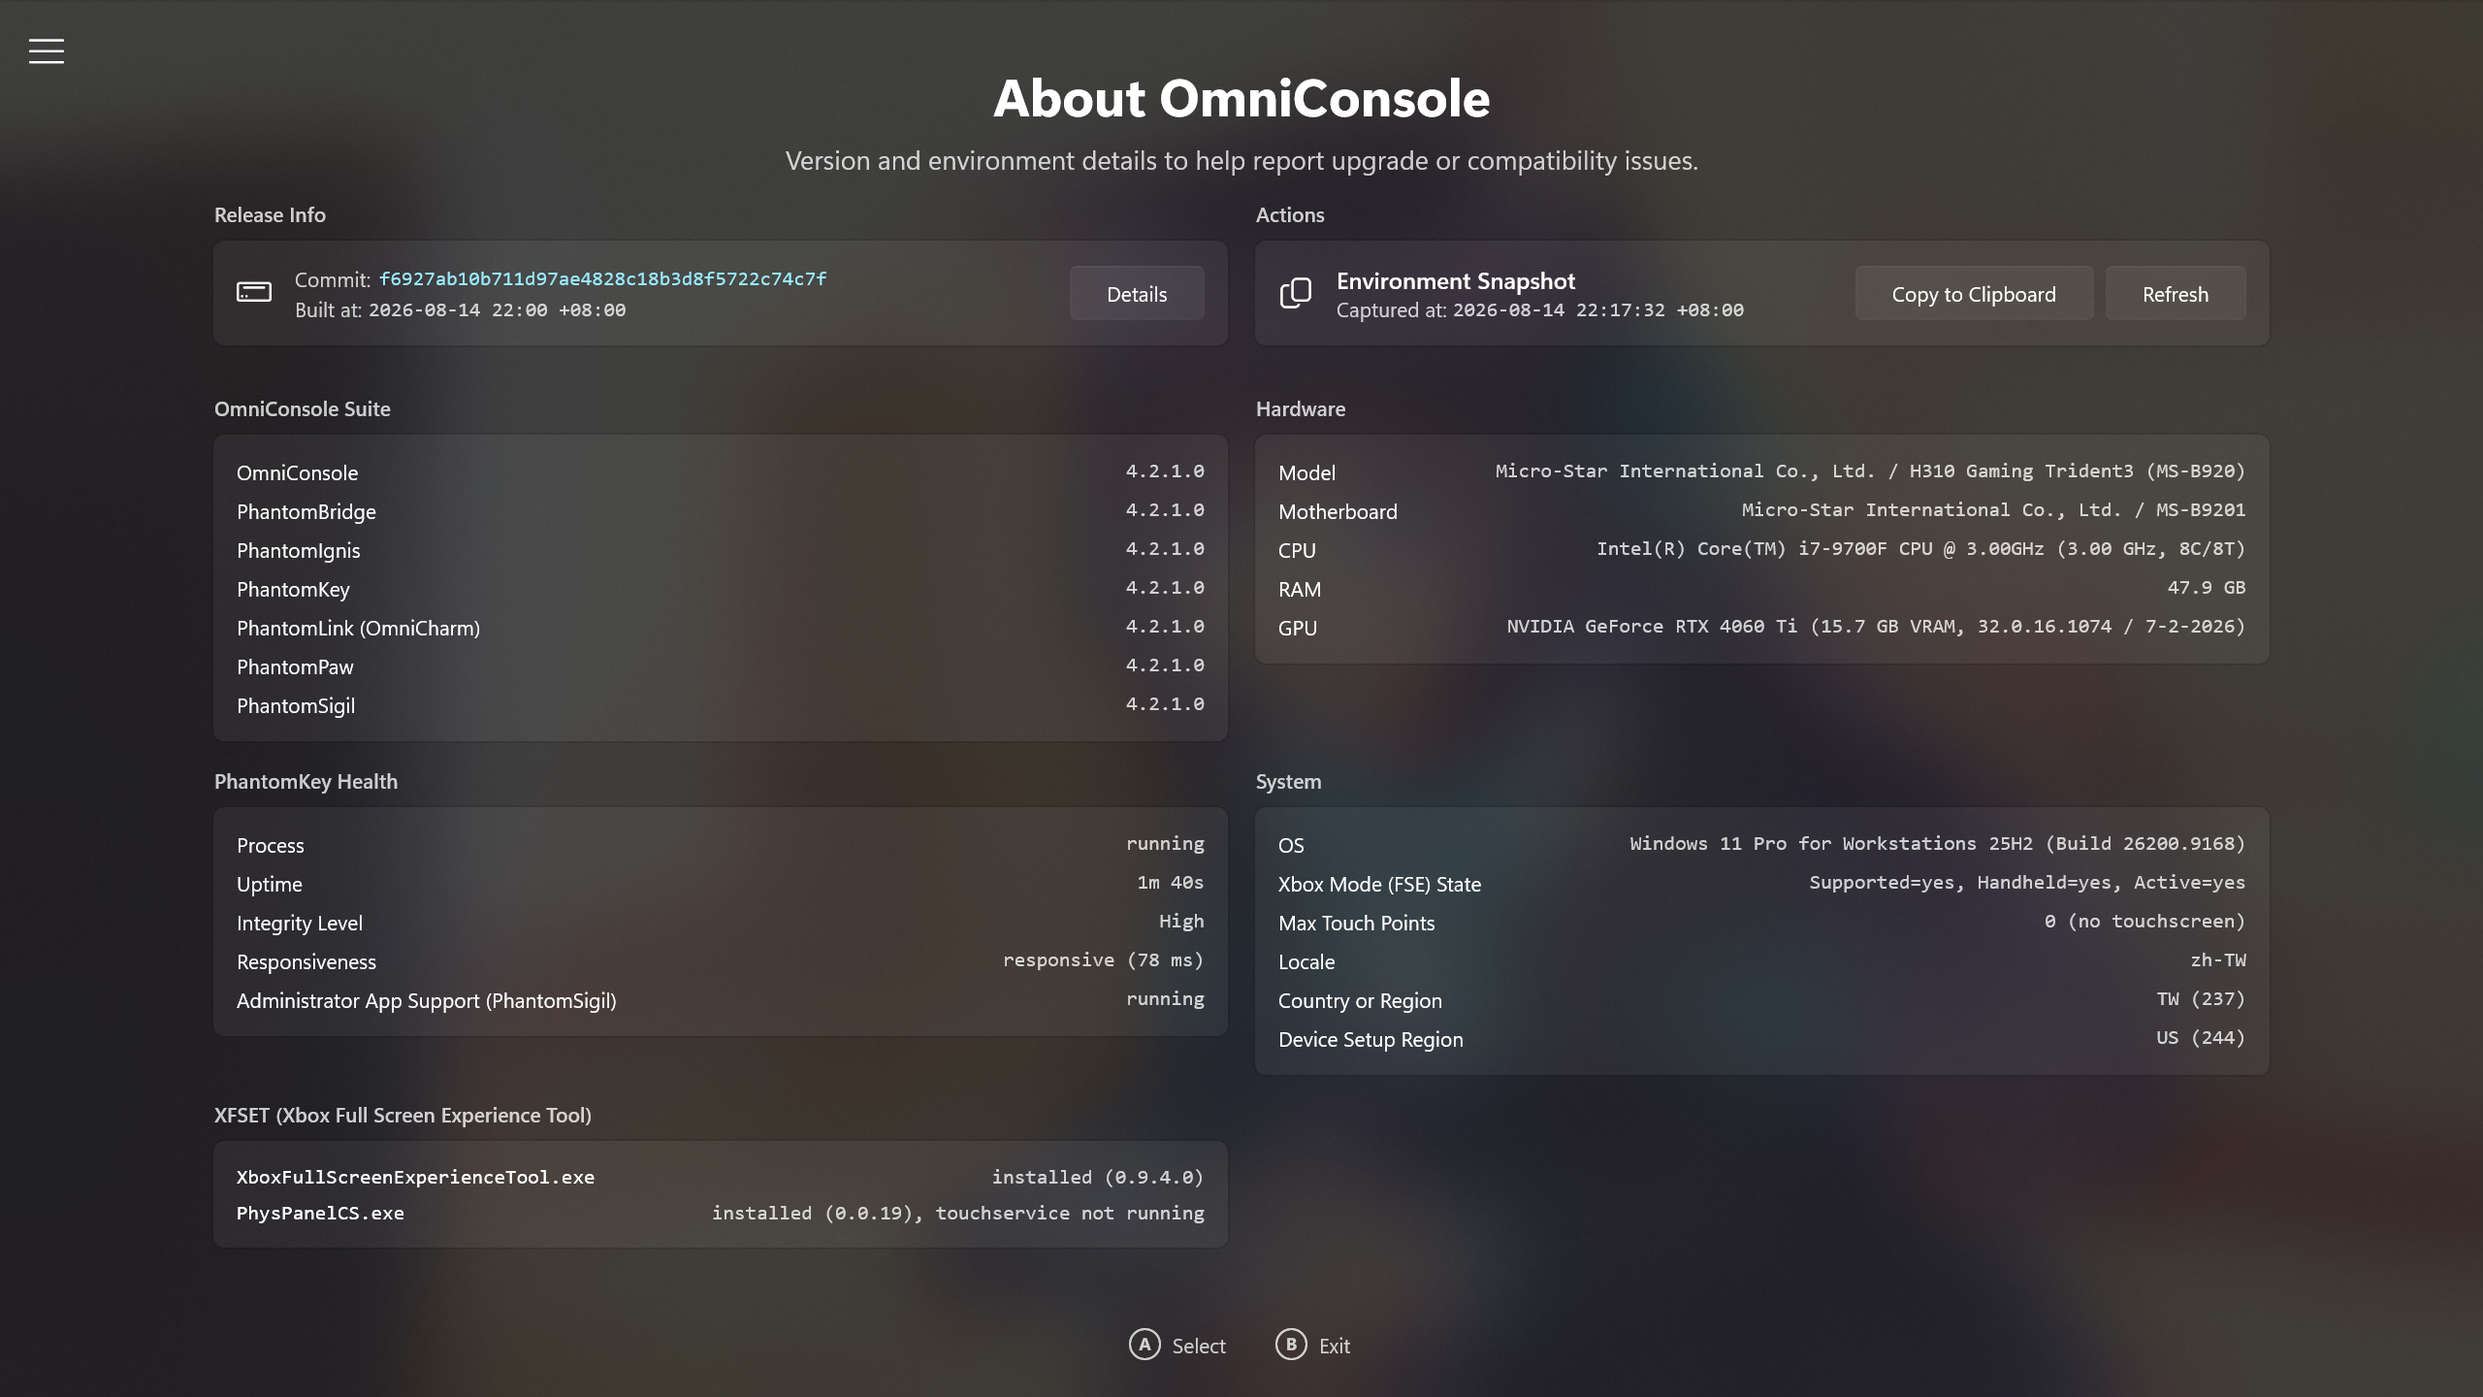
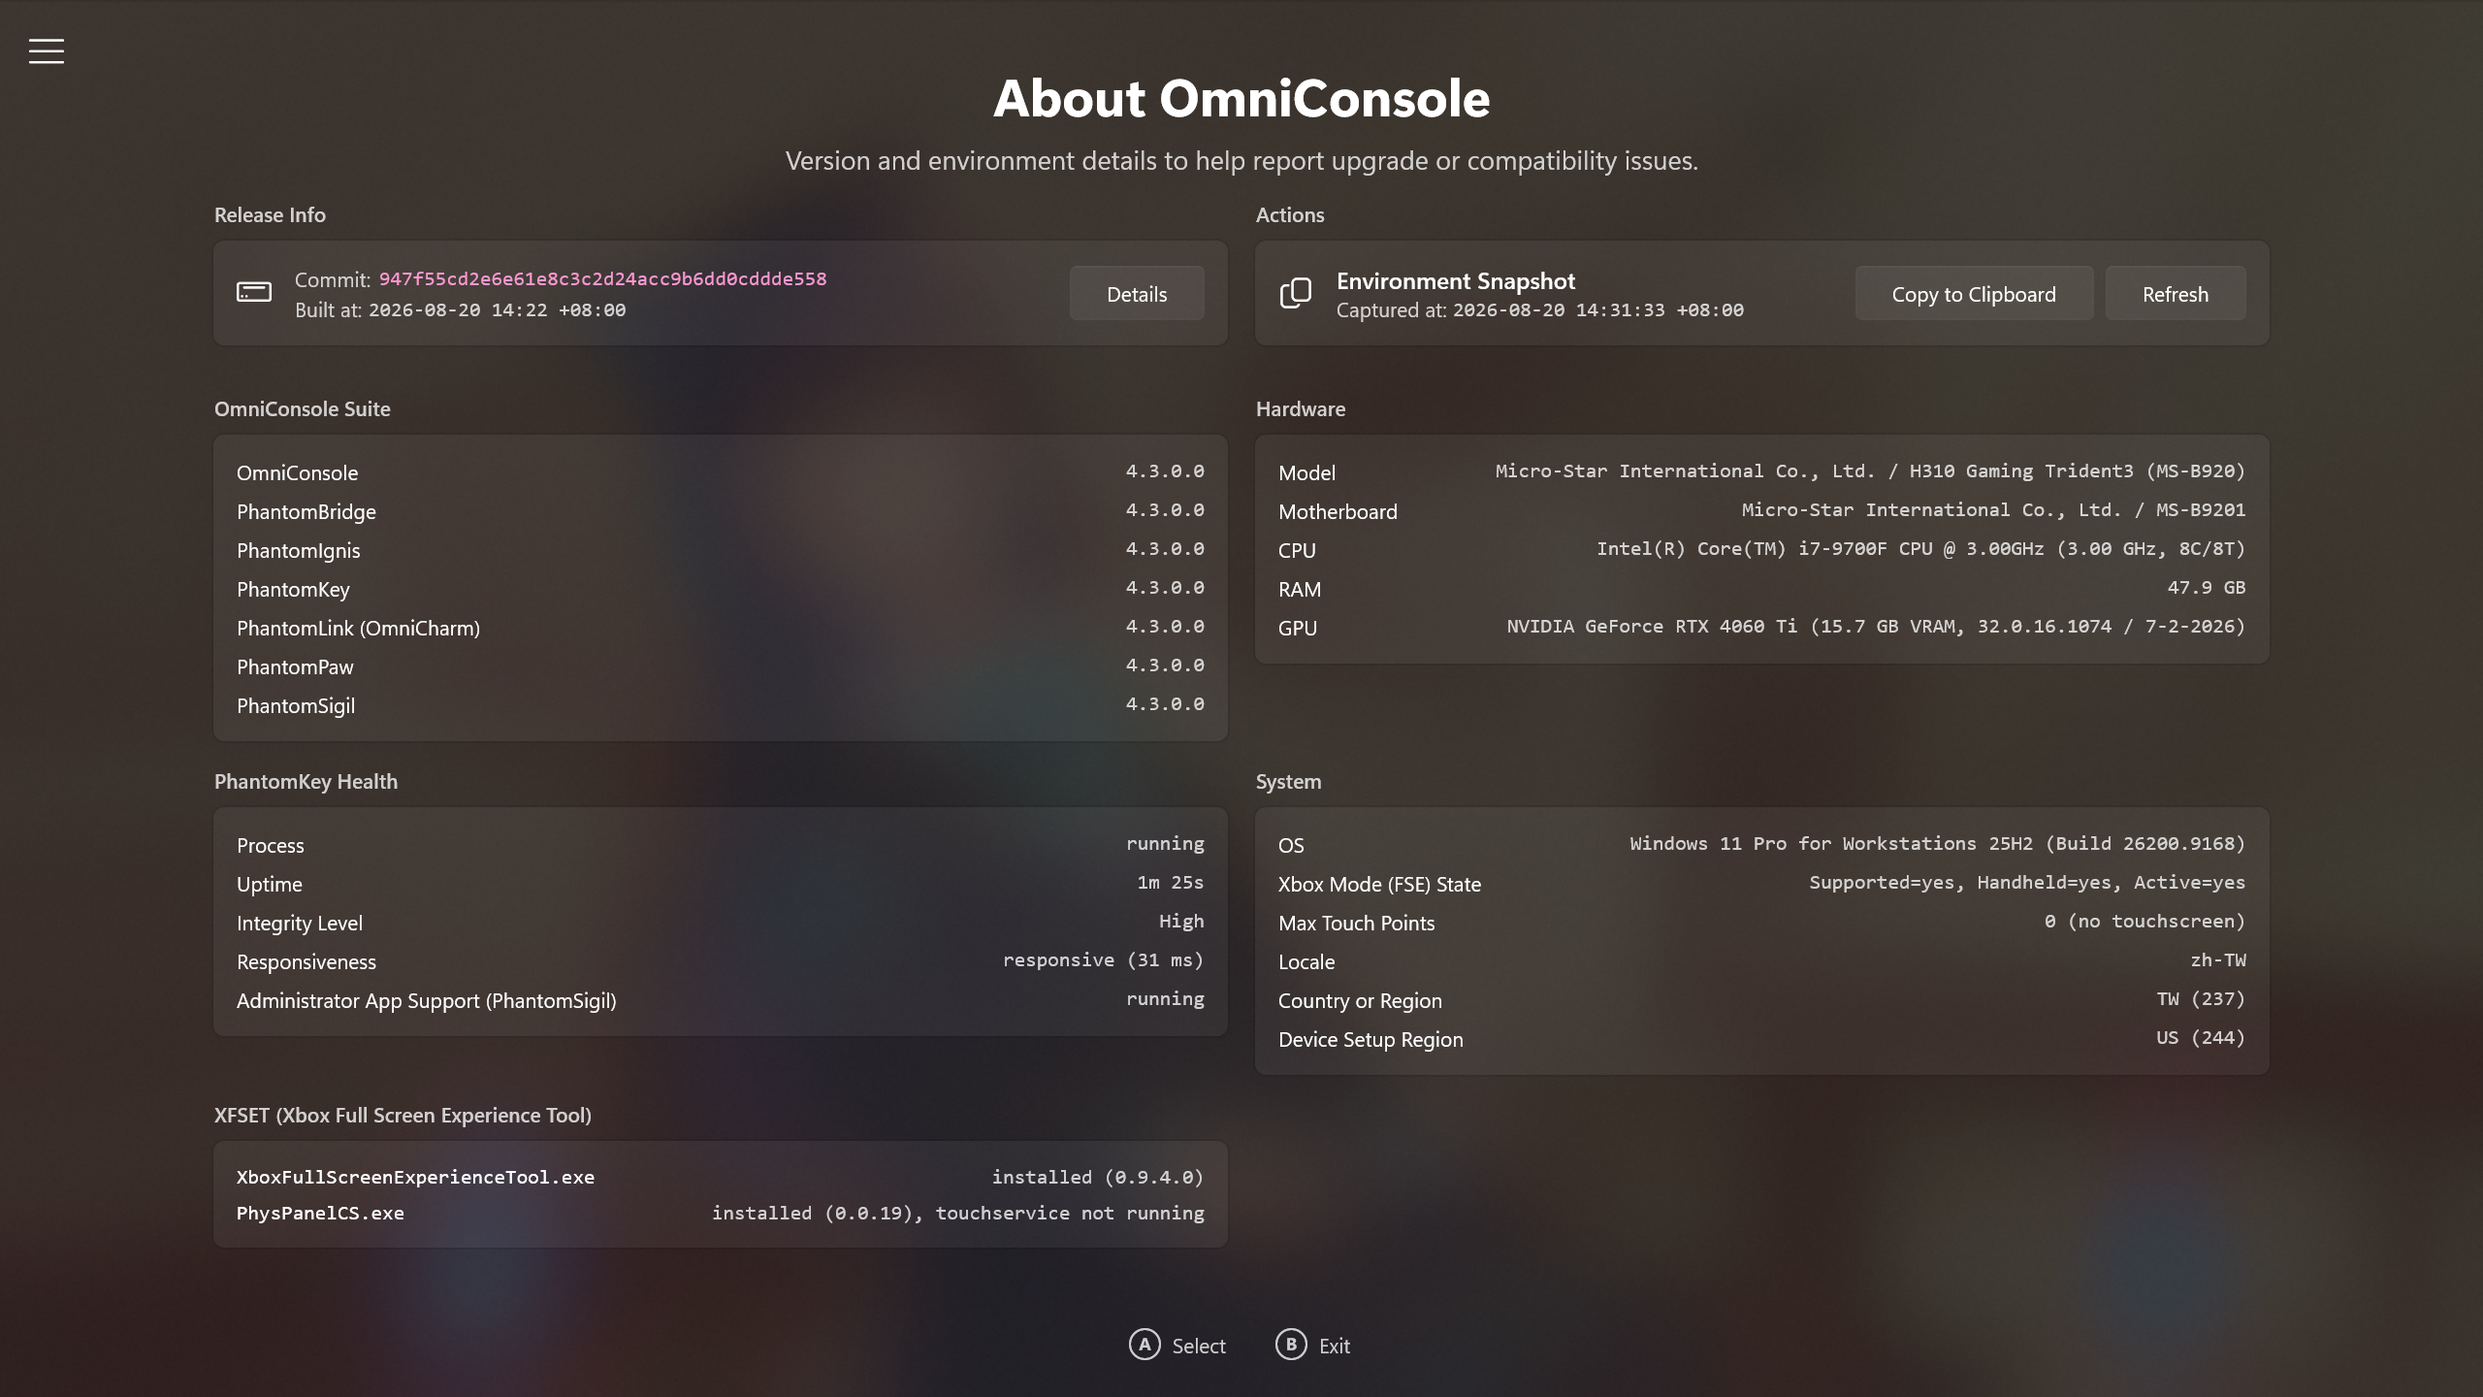
chore: Bump version to 4.3.0.0, introduce a File Explorer button in OmniCharm, refine built-in mapping & Playnite mode handling, and refresh screenshots & documentation

diff --git a/README.md b/README.md
@@ -33,7 +33,7 @@ Whenever Xbox Mode (FSE) activates, OmniConsole launches your configured gaming 
 - **Automatic platform launch** – Your configured gaming platform launches automatically whenever Xbox Mode (FSE) activates.
 - **Automatic Xbox Mode (FSE) entry** – When you launch OmniConsole outside Xbox Mode (FSE) (e.g., from the Start Menu), it automatically triggers the Xbox Mode (FSE) entry dialog.
 - **Multi-platform support** – Built-in support for **Steam Big Picture**, **Xbox App**, **Epic Games Store**, **Armoury Crate SE**, and **Playnite Fullscreen**.
-- **Custom platform support (experimental)** – Add your own platforms via Protocol URI, executable path, or Packaged App (MSIX / APPX), with an optional card cover image. Launch arguments are available when using the executable path type.
+- **Custom platform support (Experimental)** – Add your own platforms via Protocol URI, executable path, or Packaged App (MSIX / APPX), with an optional card cover image. Launch arguments are available when using the executable path type.
 - **Platform import & export** – Share custom platform configurations as JSON, with per-user install paths saved as portable environment variables so a shared platform works on any console. Right-click or long-press a card to export; use the Import button to import shared configurations.
 - **Community platforms** – Browse platform definitions shared by the community on GitHub, right inside the app. Search by name or submitter, preview each one's cover and launch details, and add it with a click.
 - **Gamepad-compatible file picker** – A custom-built file picker that replaces the system FileOpenPicker (which does not support gamepad input), letting you browse for executables and cover images with a controller. A "Browse (Windows)" button is also available for users who prefer the system file picker.
@@ -44,14 +44,14 @@ Whenever Xbox Mode (FSE) activates, OmniConsole launches your configured gaming 
 - **Troubleshoot page** – A dedicated page for Xbox Mode (FSE) recovery: restarts Game Bar to fix issues such as the "Restart for better performance" dialog not appearing, then enters Xbox Mode (FSE).
 - **Environment snapshot** – An "About" page that captures your system, hardware, and OmniConsole health status, with one-click copy as a Markdown report for easy bug reporting.
 - **Gamepad support** – Navigate with **D-Pad** or **Left Stick**; **A** to confirm, **B** to exit, **LB/RB** to switch category tabs, **Y** to add a custom platform, **X** to edit, and **Menu (☰)** to set the focused platform as default and launch it immediately (when running inside Xbox Mode (FSE)).
-- **OmniCharm widget** – A Game Bar widget for in-game quick access. Open **Task View**, the **Xbox Library**, or the **Steam Overlay** in one tap; toggle **Nekomata Mode**, controller layout preset, cursor speed, and the **Steam In-Game Overlay** (long-press ☰).
+- **OmniCharm widget** – A Game Bar widget for in-game quick access. Open **Task View**, the **Xbox Library**, **File Explorer**, or the **Steam Overlay** in one tap; toggle **Nekomata Mode**, controller layout preset, cursor speed, and the **Steam In-Game Overlay** (long-press ☰). File Explorer opens straight to **This PC**, and Nekomata Mode's built-in mapping already covers it, so you browse and open your files with the gamepad alone.
+- **Gamepad Steam shortcuts** – The gamepad **⧉** button controls Steam Big Picture shortcuts: short press opens the **Steam Menu**, long press opens the **Quick Access Menu**. Long press **☰** in-game to open the **Steam In-Game Overlay**.
 - **Nekomata Mode — gamepad as mouse and keyboard, custom per-app mapping** – When on, your customized profiles take over, while common apps such as browsers, File Explorer, the Windows file picker, Steam, Epic Games Store, EA Desktop, Playnite Desktop, and Discord run on OmniConsole's ready-made mapping, which you can customize too. Nekomata weaves a charm for each app, remapping XInput controls (A/B/X/Y, LB/RB, LT/RT, LS/RS, D-pad, both sticks) to a keyboard key, modifier combo, mouse button, scroll wheel, cursor movement, scrolling, arrow keys, or WASD, with three controller layouts to choose from: **OmniNav**, **Classic**, and a **Custom Layout** you define yourself (Pro). Each app's charm can also **raise the mapping service priority** with **Nekomata Boost** for demanding games, give any key a **hold-to-repeat** toggle, and **prevent double input** by blocking the app's own native XInput and DirectInput signals to keep them from interfering with the remapped keyboard and mouse. Open the editor from the OmniCharm widget's "Customize gamepad mapping for this app…" button.
 - **Custom controller layout (Pro)** – Define your own default layout alongside OmniNav and Classic. Choose **Custom** under **Settings → Advanced → Nekomata → Controller Layout Preset**, then click **Edit…** to arrange the controller's inputs. Apps covered by built-in mapping pick it up right away, and every new app profile starts from it. The OmniCharm widget can switch to it as well.
 - **Administrator app support (Pro)** – Gamepad mappings reach apps and games that run as an administrator. Install it from **Settings → Advanced → Nekomata** and approve the administrator prompt, and Nekomata Mode extends to those apps, with the OmniCharm widget opening the mapping editor for them too.
 - **Screen keyboards from any button (Pro)** – Windows brings up a screen keyboard from Game Bar. Pro adds a direct route: assign one to a controller button and it opens without interrupting what you are doing. Pick the **Gamepad keyboard**, which you type on with the controller itself, or the classic **On-screen keyboard**, which you point at with the cursor. The On-screen keyboard also requires Administrator App Support.
 - **Nekomata Mode on the ROG Ally family (Pro)** – These consoles ship with the manufacturer's own gamepad mapping, and Nekomata defers to it. Pro makes that a choice: turn it on under **Settings → Advanced**, then set **Control Mode** to **Gamepad** in Command Center. Everything Nekomata does on a desktop she does here too. It starts out off, and asks for confirmation the first time.
 - **Performance overlay controls (Pro)** – Game Bar comes with Microsoft's own **Performance** widget for watching your framerate and system usage while you play. Pro adds a separate set of controls for adjusting RivaTuner Statistics Server's on-screen display from inside OmniConsole. Under **Settings → Advanced → Performance Overlay** you can turn the on-screen display on or off, show framerate statistics, add a shadow behind the text, scale it up, and set a framerate limit. The OmniCharm widget carries the same controls on its **Overlay** tab, so they are within reach while a game is running. Requires Administrator App Support and RivaTuner Statistics Server.
-- **Gamepad Steam shortcuts** – The gamepad **⧉** button controls Steam Big Picture shortcuts: short press opens the **Steam Menu**, long press opens the **Quick Access Menu**. Long press **☰** in-game to open the **Steam In-Game Overlay**.
 - **Dedicated Settings entry** – A separate "**OmniConsole Settings**" entry in All Apps lets you change your default platform anytime.
 - **Native Xbox Mode (FSE) integration** – Registered as a Windows 11 Xbox Mode (FSE) Home App through the official API.
 - **In-app updates** – Automatic checks for the latest GitHub releases, with download and install built into the Advanced settings page.

diff --git a/README.zh-TW.md b/README.zh-TW.md
@@ -44,14 +44,14 @@ OmniConsole 在 PC 與掌機（ROG Xbox Ally X 等）上作為你的 Windows 11 
 - **疑難排解頁面** – Xbox 模式 (FSE) 救援專屬頁面：重啟 Game Bar 以修復「重新啟動以提升效能」對話方塊未出現等問題，接著進入 Xbox 模式 (FSE)。
 - **環境快照** – 「關於」頁面擷取系統、硬體與 OmniConsole 健康狀態，並支援一鍵複製為 Markdown 格式，方便回報問題。
 - **手把支援** – 以**十字鍵**或**左搖桿**導覽；**A 鍵**確認、**B 鍵**退出、**LB/RB** 切換分類索引標籤、**Y 鍵**新增自訂平台、**X 鍵**編輯，**Menu（☰）鍵**將聚焦平台設為預設並立即啟動（僅在 OmniConsole 於 Xbox 模式 (FSE) 中執行時可用）。
-- **OmniCharm 小工具** – 遊戲中快速存取的 Game Bar 小工具：一鍵開啟**工作檢視**、**Xbox 媒體櫃**或 **Steam 遊戲內嵌介面**；切換**貓又模式**、控制器預設版面、游標速度與 **Steam 遊戲內嵌介面**（長按 ☰）。
+- **OmniCharm 小工具** – 遊戲中快速存取的 Game Bar 小工具：一鍵開啟**工作檢視**、**Xbox 媒體櫃**、**檔案總管**或 **Steam 內嵌介面**；切換**貓又模式**、控制器預設版面、游標速度與 **Steam 遊戲內嵌介面**（長按 ☰）。檔案總管直接開啟**本機**，而貓又模式的內建映射涵蓋它，瀏覽與開啟檔案全程用手把就行。
+- **手把 Steam 快捷鍵** – 手把 **⧉** 按鍵對應 Steam Big Picture 模式快捷：短按開啟 **Steam 選單**，長按喚出**快速存取選單**。在遊戲中長按 **☰** 可開啟 **Steam 遊戲內嵌介面**。
 - **貓又模式 — 手把化身鍵鼠、自訂各程式映射** – 開啟時，你自訂的設定檔會接手，而瀏覽器、檔案總管、Windows 檔案選擇器、Steam、Epic Games Store、EA Desktop、Playnite 桌面版、Discord 等常見程式則套用 OmniConsole 預先備妥的映射，這些映射同樣能自訂。貓又為每個程式編一道咒，將 XInput 輸入位（A/B/X/Y、LB/RB、LT/RT、LS/RS、十字鍵、雙搖桿）重新映射為鍵盤按鍵、修飾鍵組合、滑鼠按鍵、滾輪、游標移動、捲動、方向鍵或 WASD，並提供三種控制器版面配置：**OmniNav**、**經典**，以及你自己定義的**自訂版面**（專業版）。每個程式的咒語還能以**貓又衝刺**提高映射服務優先順序、應付吃資源的遊戲，為任何按鍵開啟**長按連發**，並**避免雙重輸入**：阻擋該程式自身的原生 XInput 與 DirectInput 訊號，避免與映射後的鍵鼠相互干擾。從 OmniCharm 小工具的「自訂此程式的手把映射…」按鈕進入編輯器。
 - **自訂控制器版面（專業版）** – 在 OmniNav 與經典之外，自己定義一套預設版面。於**設定 → 進階 → 貓又 → 控制器預設版面**選擇**自訂**，再點 **編輯…** 編排手把的輸入位。內建映射涵蓋的程式會立即套用，新增的程式設定檔也以它為起點。OmniCharm 小工具同樣能切換到它。
 - **系統管理員程式支援（專業版）** – 手把映射能作用於以系統管理員身分執行的程式與遊戲。在**設定 → 進階 → 貓又**點選**安裝**並通過系統管理員授權，貓又模式就會延伸到這類程式，OmniCharm 小工具也能為它們開啟映射編輯器。
 - **用手把叫出螢幕鍵盤（專業版）** – Windows 本身就能從 Game Bar 叫出螢幕鍵盤。專業版多一條直達路線：把任一按鍵映射成喚出鍵盤，手邊的事不必中斷。可選用手把直接打字的**遊戲控制器鍵盤**，或以游標點按的**螢幕小鍵盤**。螢幕小鍵盤另需系統管理員程式支援。
 - **ROG Ally 家族主機上的貓又模式（專業版）** – 這類主機出廠即備有廠商自己的手把映射，貓又一向為它讓路。專業版讓這件事成為一個選擇：於**設定 → 進階**開啟，再到 Command Center（控制中心）把**控制模式**設為**遊戲控制器**。貓又在桌機上會的，在這裡她一樣會。它預設關閉，初次開啟時會請你確認。
 - **效能疊加層控制（專業版）** – Game Bar 本身就備有微軟提供的**效能**小工具，玩遊戲時就能看到幀率與系統使用量。專業版另外給你一組控制項，讓你在 OmniConsole 裡調整 RivaTuner Statistics Server 的螢幕顯示。於**設定 → 進階 → 效能疊加層**可開關螢幕顯示、顯示幀率統計、為文字加上陰影、放大顯示，以及設定幀率上限。OmniCharm 小工具的**疊加層**分頁也有同一組控制項，遊戲進行中伸手可及。需搭配系統管理員程式支援與 RivaTuner Statistics Server。
-- **手把 Steam 快捷鍵** – 手把 **⧉** 按鍵對應 Steam Big Picture 模式快捷：短按開啟 **Steam 選單**，長按喚出**快速存取選單**。在遊戲中長按 **☰** 可開啟 **Steam 遊戲內嵌介面**。
 - **專屬設定入口** – 「所有應用程式」中獨立的「**OmniConsole 設定**」項目，隨時可更改預設平台。
 - **原生 Xbox 模式 (FSE) 整合** – 透過 Windows 11 Xbox 模式 (FSE) 官方 API 註冊為主畫面應用程式。
 - **內建應用程式更新** – 自動檢查 GitHub 最新版本，可在「進階」設定頁面中直接下載與安裝。
